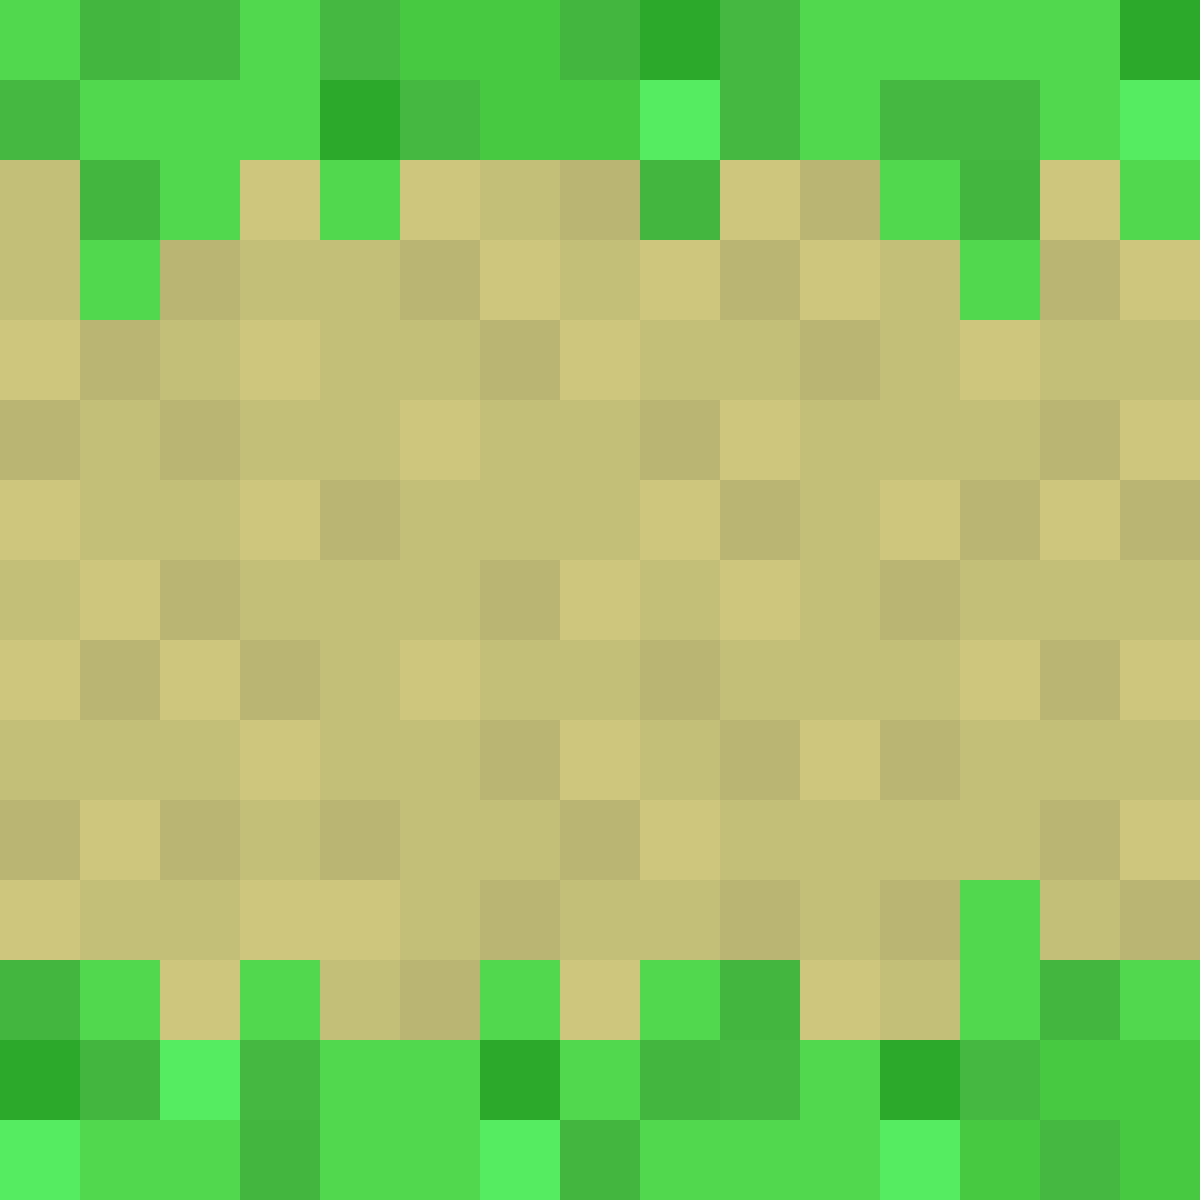
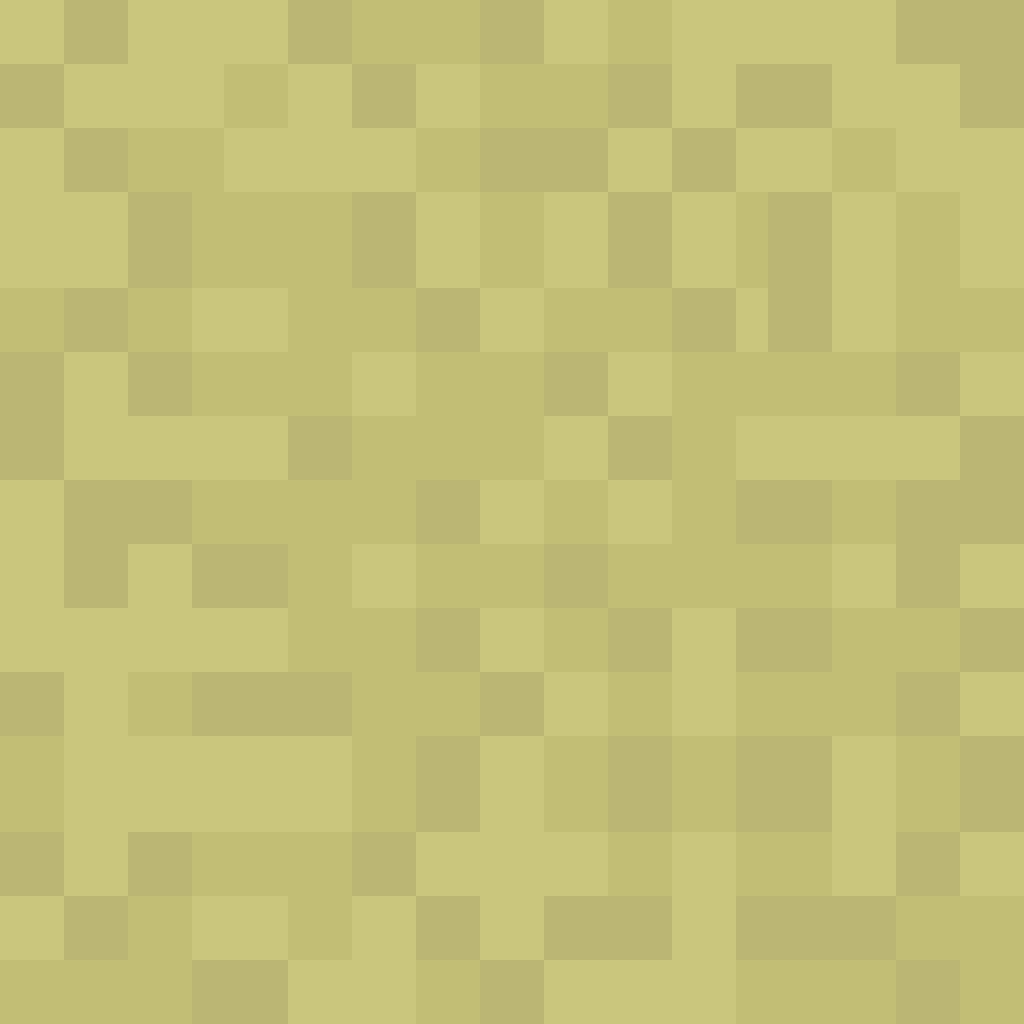
- plateau fond - rectangle mouse hover

diff --git a/src/gameGraphique.cpp b/src/gameGraphique.cpp
@@ -115,6 +115,7 @@ void GameGraphique::afficherInit() {
 
     renderer = SDL_CreateRenderer(window,-1,SDL_RENDERER_ACCELERATED);
  
+    im_plateauFond.loadFromFile("img/PlateauFond.png", renderer);
     im_monstre1.loadFromFile("img/Squelette.png", renderer);
     im_monstre2.loadFromFile("img/monstre2.png",renderer);
     im_monstre3.loadFromFile("img/Golem.png", renderer);
@@ -151,6 +152,9 @@ void GameGraphique::afficherInit() {
 
 //Affiche le plateau de jeu 
 void GameGraphique::AffichagePateau(){
+
+
+    im_plateauFond.draw(renderer, 30, 110, 950, 587);
 
     for(unsigned int j=0; j<game.defenses.size(); j++)
     {
@@ -392,7 +396,10 @@ void GameGraphique::afficher(){
     bool AfficherMenuChoixBuyDefBool=false;
     bool AfficherMenuChoixUpgSellBool=false;
     bool AfficherCroix = false;
+    bool AfficheRectangleHover = false;
     int CaseChoisie;
+    int PosXRectHover;
+    int PosYRectHover;
    
     
     int xMouse, yMouse;
@@ -424,6 +431,18 @@ void GameGraphique::afficher(){
             if(events.type == SDL_MOUSEMOTION)
             {
                 SDL_GetMouseState(&xMouse, &yMouse);
+                for(unsigned int i=0; i<game.defenses.size(); i++)
+                {
+                    int Defy = i/25; //transforme la position en i
+                    int Defx = i%25; //transforme la position en j
+
+                    if(xMouse > Defx*37+40 && xMouse < Defx*37+40 + 35 &&  yMouse > Defy*37+122 && yMouse < Defy*37+122 +35)
+                        { 
+                            AfficheRectangleHover = true;
+                            PosXRectHover = Defx*37+40;
+                            PosYRectHover = Defy*37+122;
+                        }
+                }
 
             }
             if(events.type == SDL_MOUSEBUTTONDOWN)
@@ -436,6 +455,10 @@ void GameGraphique::afficher(){
                     //si on enfonce le bouton gauche de la souris et que la souris se trouve dans l'une des cases 
                     if(xMouse > Defx*37+40 && xMouse < Defx*37+40 + 35 &&  yMouse > Defy*37+122 && yMouse < Defy*37+122 +35)
                     { 
+                        AfficheRectangleHover = true;
+                        PosXRectHover = Defx*37+40;
+                        PosYRectHover = Defy*37+122;
+
                         if(events.button.button == SDL_BUTTON_LEFT && game.defenses[i].getType() == RIEN)
                         {
                             cout<<"Case :"<<i<<" enfoncé"<<endl; 
@@ -458,6 +481,8 @@ void GameGraphique::afficher(){
 
                             CaseChoisie = i;
                         }
+
+                        
                     
 
                     }
@@ -595,6 +620,15 @@ void GameGraphique::afficher(){
             }
         }
 
+        if(AfficheRectangleHover)
+        {
+            SDL_Rect RectangleHover = {PosXRectHover, PosYRectHover, 35, 35};
+          
+            SDL_RenderFillRect(renderer, &RectangleHover);
+
+        
+
+        }
         if(AfficherInfosSansMenus)
         {
             AfficherInfosJeu();

diff --git a/src/gameGraphique.h b/src/gameGraphique.h
@@ -53,7 +53,7 @@ class GameGraphique {
         int ParamInitShopDOUBLECANON[4] = {DimWindowX/2-150, DimWindowY-100, 70, 70};
         int ParamInitShopMORTIER[4] = {DimWindowX/2+160, DimWindowY-100, 70, 70};
         
-
+        Image im_plateauFond;
         Image im_monstre1;
         Image im_monstre2;
         Image im_monstre3;
@@ -71,6 +71,7 @@ class GameGraphique {
         Image im_Upgrade;
         Image im_Cross;
         Image im_Play;
+
 
     public:
         
